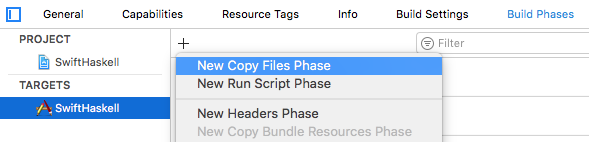
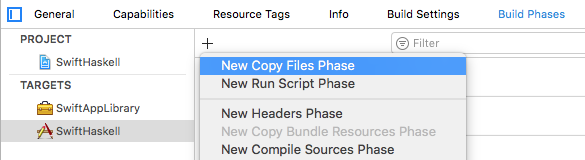
Update screenshots
- Crop the first two project creation screenshots
- Update and use the New Copy Files Phase screenshot
- Remove unused screenshots

diff --git a/README.md b/README.md
@@ -1,11 +1,12 @@
 # Integrating Haskell with Swift Mac Apps
 
 To start, create a new Cocoa Application Xcode project
-with Swift as the default language:
 
-![Select the Cocoa app template](tutorial/xcode-cocoa-template.png)
+![Select the Cocoa app template](tutorial/xcode-cocoa-template-icon.png)
 
-![Create a new project](tutorial/xcode-create-project.png)
+with Swift as the default language.
+
+![Select Swift as the default language](tutorial/xcode-create-project-language-swift.png)
 
 Then `cd` into the directory with the `.xcodeproj` and create a
 new stack project:
@@ -194,6 +195,8 @@ In the SwiftHaskell app target's Build Phases, remove the
 phases, and add a new **Copy Files** phase that copies the
 `SwiftHaskell` executable into the app bundle's Executables
 directory:
+
+![New Copy Files Phase](tutorial/xcode-new-copy-files-phase.png)
 
 ![Copy into Executables](tutorial/xcode-copy-files-swifthaskell-executable.png)
 
